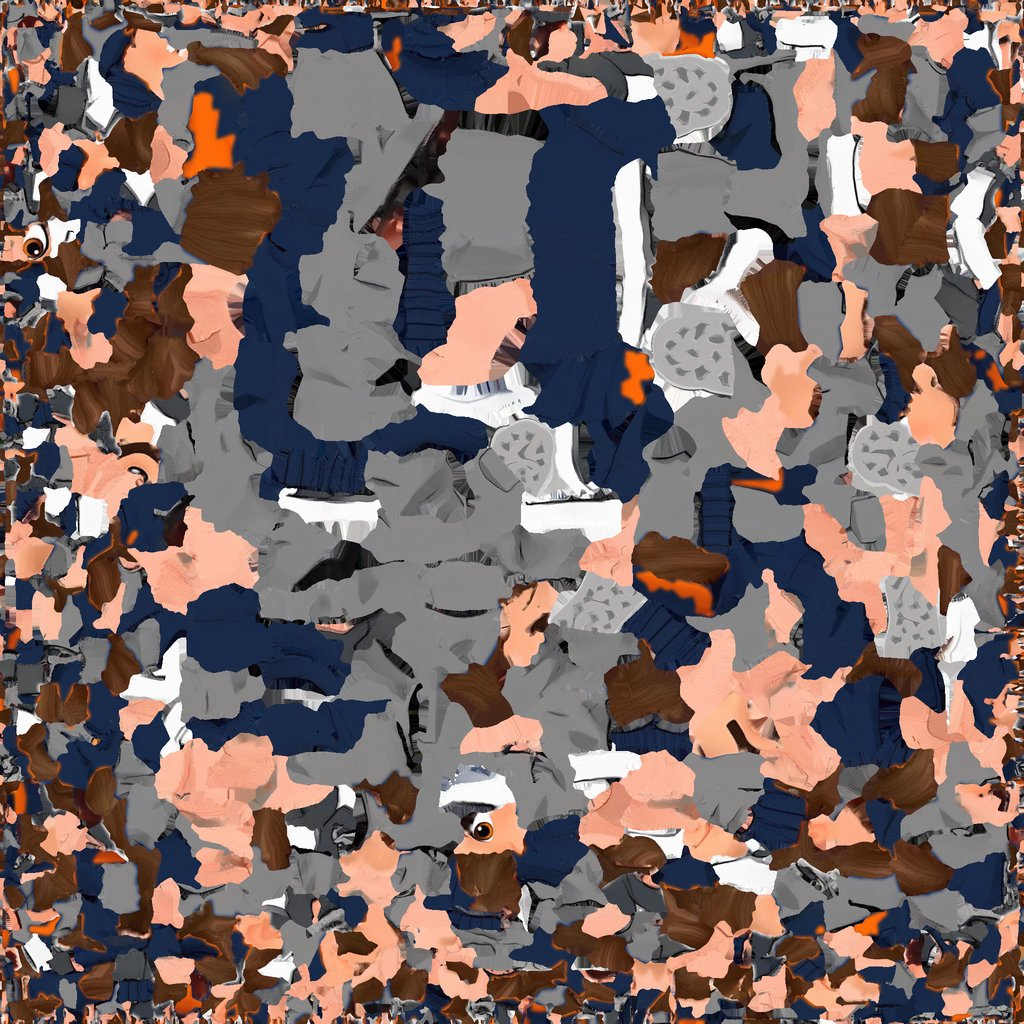
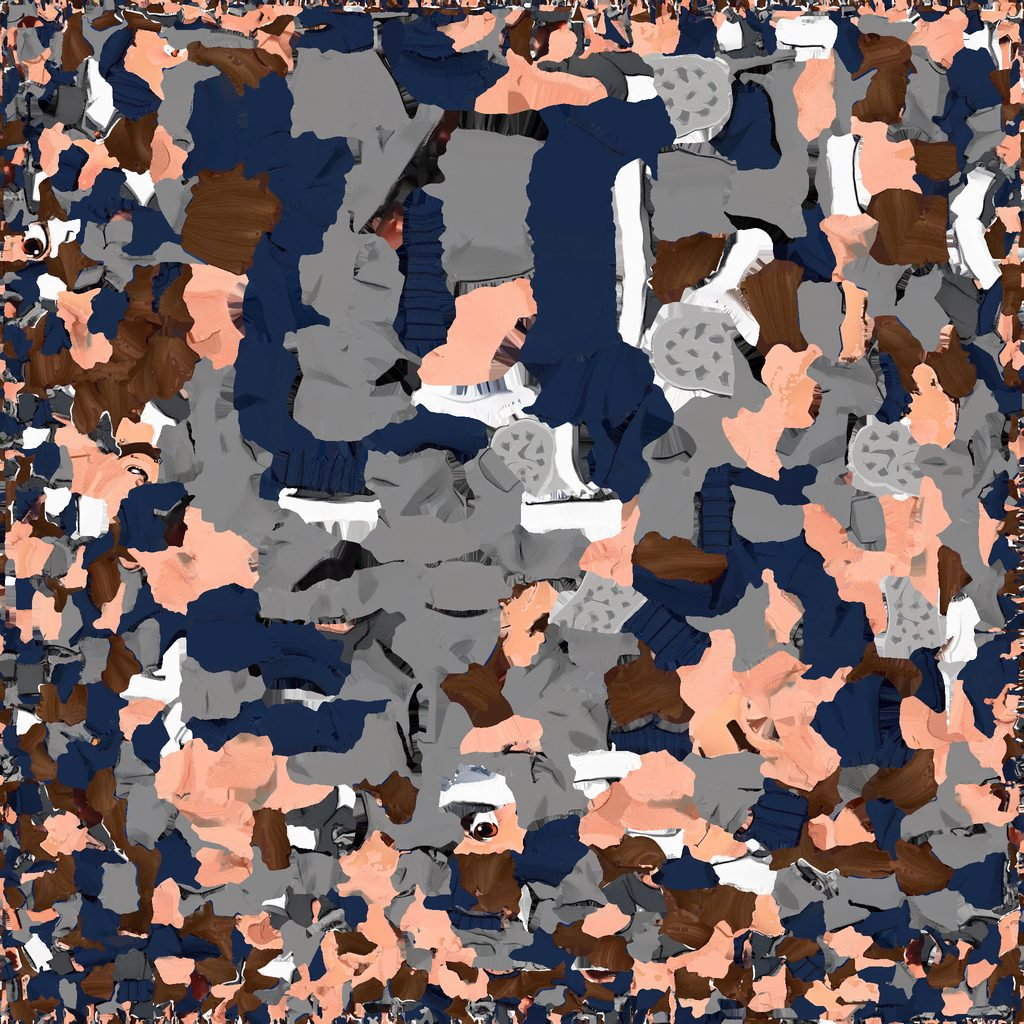
Outfit shop live: clean outfit textures, pictures of each, and other players in their outfits
- The outfit composite kept the base hoodie wherever the head mask reached the hood and
  shoulders, leaving orange (teal on the woman) streaks on the bought outfits: the base is
  now only kept where it is skin, hair or face. Textures and shop pictures redone (v=t2).
- The outfit travels with the player (packAv slot 13); other players see the Meshy figure in
  it, each parsed on its own from the cached file and dressed once its picture has loaded
  (a texture shown before that stayed black).
- Outfit textures refresh themselves when they finish loading.

Claude-Session: https://claude.ai/code/session_01F9ngwZU51Tw1JPpJ4NGN1L

diff --git a/public/store-game/index.html b/public/store-game/index.html
@@ -3,7 +3,7 @@
 (function(){ if(/[?&]hero=old/.test(location.search)) return; var a={}; try{ a=JSON.parse(localStorage.getItem('bt-avatar')||'{}')||{}; }catch(e){}
   var B=location.hostname==='play.buytoday.co.il'?'':'https://play.buytoday.co.il/', g=a.girl?'F1':'1', O=a.girl?['teal','pink','yellow','purple','tee','leather']:['orange','red','tee','navy','sweater','leather'];
   var o=O.indexOf(a.outfit)>=0?a.outfit:O[0], small=matchMedia('(max-width:700px)').matches||matchMedia('(pointer:coarse)').matches;
-  [[B+'people/MESHY-'+g+'.glb?v=y4','fetch'],[B+'people/anims.glb?v=p4','fetch'],[B+'gltf-loader.js','script'],[B+'meshopt_decoder.js?v=1','script'],[B+'people/tex/'+g+'-'+o+(small?'-m':'')+'.jpg?v=t1','image']].forEach(function(x){
+  [[B+'people/MESHY-'+g+'.glb?v=y4','fetch'],[B+'people/anims.glb?v=p4','fetch'],[B+'gltf-loader.js','script'],[B+'meshopt_decoder.js?v=1','script'],[B+'people/tex/'+g+'-'+o+(small?'-m':'')+'.jpg?v=t2','image']].forEach(function(x){
     var l=document.createElement('link'); l.rel='preload'; l.href=x[0]; l.as=x[1]; if(x[1]!=='script') l.crossOrigin='anonymous'; document.head.appendChild(l); }); })();
 </script>
 <link rel="preconnect" href="https://fonts.googleapis.com">
@@ -2330,8 +2330,10 @@ function heroDress(model,o){
 /* the Meshy figure: one baked texture, so nothing to swap or tint; it only needs its shadows */
 const MESHY_TEX={}, MESHY_SMALL=PHONE.matches||matchMedia('(pointer:coarse)').matches;
 function meshyTex(name){ if(MESHY_TEX[name]) return MESHY_TEX[name];
-  const t=new THREE.TextureLoader().load(ASSET+'people/tex/'+name+(MESHY_SMALL?'-m':'')+'.jpg?v=t1');
+  const t=new THREE.TextureLoader().load(ASSET+'people/tex/'+name+(MESHY_SMALL?'-m':'')+'.jpg?v=t2',tx=>{ tx.needsUpdate=true; tx.btOk=true; (tx.btWait||[]).forEach(f=>f()); tx.btWait=[]; });
   t.flipY=false; t.encoding=THREE.sRGBEncoding; t.anisotropy=renderer.capabilities.getMaxAnisotropy(); return MESHY_TEX[name]=t; }
+// resolves once the outfit's picture is in (a texture shown before that can stay black)
+const meshyTexReady=name=>new Promise(res=>{ const t=meshyTex(name); if(t.btOk) res(t); else (t.btWait=t.btWait||[]).push(()=>res(t)); });
 function meshyDress(model,o){ const an=renderer.capabilities.getMaxAnisotropy();
   // the player's own figure wears the chosen outfit: the same body painted another way (the face stays the same)
   const body=model.getObjectByName('char1')&&o!==ALF_LOOK&&MESHY_HERO?(o.girl?'F1':'1'):null, list=body&&MESHY_OUTFITS[o.girl?'f':'m'];
@@ -2854,6 +2856,28 @@ function personAttach(G,T){
     G.npc3d={model:r,mixer,actions,state:null,action:null,ik:heroFindArms(m),push:0,phase:Math.random()*10,person:true};
     mixer.update(G.npc3d.phase);
   }catch(e){ console.warn('people: keeping the wardrobe figure',e); }
+}
+/* another player as they see themselves: the Meshy figure in the outfit they wear (packAv slot 13), its own copy of
+   the skeleton and a material of its own; if the file cannot be had, the wardrobe figure as before */
+function meshyPeer(G,av){
+  // a model of its own, parsed again from the cached file (as Alfred and the seller are), with the crowd's clips
+  const url=heroMainUrl(av);
+  gltfReady().then(()=>new Promise((res,rej)=>{ const L=new THREE.GLTFLoader(); if(window.MeshoptDecoder) L.setMeshoptDecoder(window.MeshoptDecoder); L.load(url,res,undefined,rej); }))
+  .then(meshyAnims).then(gl=>{ const g=av.girl?'f':'m', list=MESHY_OUTFITS[g], o=list.some(x=>x[0]===av.outfit)?av.outfit:list[0][0];
+    return meshyTexReady((g==='f'?'F1':'1')+'-'+o).then(()=>[gl,g,o]); }).then(([gl,g,o])=>{
+    if(!G.g.parent||G.npc3d) return;
+    const m=gl.scene;
+    m.traverse(x=>{ if(x.isMesh){ x.castShadow=false; x.frustumCulled=false; } });
+    meshyDress(m,{girl:!!av.girl,outfit:o});   // exactly as the player's own figure is dressed
+    m.scale.setScalar(HERO_MODEL_SCALE); m.rotation.y=HERO_MODEL_ROTATION_OFFSET;
+    const r=new THREE.Group(); r.add(m);
+    const mixer=new THREE.AnimationMixer(m), actions={};
+    ['Idle','Walk','Run','Wave'].forEach(n=>{ const c=gl.animations.find(a=>a.name===n); if(c){ const a=mixer.clipAction(c); a.setLoop(THREE.LoopRepeat,Infinity); actions[n]=a; } });
+    if(!actions.Idle||!actions.Walk) throw new Error('no clips');
+    G.g.add(r); G.body.visible=false;
+    G.npc3d={model:r,mixer,actions,state:null,action:null,ik:heroFindArms(m),push:0,phase:0};
+    mixer.update(0);
+  }).catch(e=>{ console.warn('peer 3D: the wardrobe figure instead',e); npcAdopt(G,avOpts(av)); });
 }
 const npcGesture=(G,name)=>{ if(G&&G.npc3d&&G.g.visible) gestStart(G.npc3d,name,name==='Wave'?2:1); };
 // the cashiers are built before this code runs: they join now
@@ -5493,13 +5517,15 @@ const AV_BOTTOM=['pants','skirt','shorts'], AV_EXTRA=['none','cap','glasses','be
 const packAv=a=>{ const S=HERO_STYLES[a.girl?'f':'m'], L=heroLook(a);
   return [a.girl?1:0,a.skin,a.hair,a.shirt,a.pants,AV_BOTTOM.indexOf(a.bottom),AV_EXTRA.indexOf(a.extra),Math.max(0,AV_MERCH.indexOf(a.merch||'none')),
     S.head.findIndex(x=>x[0]===(a.hairStyle||L.head)),S.top.findIndex(x=>x[0]===L.top),   // 8, 9: the 3D haircut and shirt style
-    Math.max(0,AV_BODY.findIndex(b=>b[0]===a.body)),Math.max(0,AV_CHOICES.eyes.indexOf(a.eyes)),Math.max(0,AV_EYEWEAR.indexOf(a.eyewear||'none'))]; };   // 10-12: build, eyes, glasses
+    Math.max(0,AV_BODY.findIndex(b=>b[0]===a.body)),Math.max(0,AV_CHOICES.eyes.indexOf(a.eyes)),Math.max(0,AV_EYEWEAR.indexOf(a.eyewear||'none')),   // 10-12: build, eyes, glasses
+    MESHY_HERO?Math.max(0,MESHY_OUTFITS[a.girl?'f':'m'].findIndex(x=>x[0]===a.outfit)):-1]; };   // 13: the Meshy outfit (-1: the wardrobe figure)
 function unpackAv(v){ if(!Array.isArray(v)) return null;
   // only the creator's own swatches: an arbitrary colour per visitor would grow the material cache without end
   const c=(x,key,d)=>AV_CHOICES[key].includes(x)?x:d;
   const S=HERO_STYLES[v[0]===1?'f':'m'], st=(list,i)=>Number.isInteger(i)&&list[i]?list[i][0]:'';
   return {girl:v[0]===1,skin:c(v[1],'skin',0xf1c7a0),hair:c(v[2],'hair',0x3a2618),shirt:c(v[3],'shirt',0x2f7de1),pants:c(v[4],'pants',0x2b2f3a),bottom:AV_BOTTOM[v[5]]||'pants',extra:AV_EXTRA[v[6]]||'none',merch:AV_MERCH[v[7]]||'none',
-    hairStyle:st(S.head,v[8]),top:st(S.top,v[9]),body:(AV_BODY[v[10]]||AV_BODY[0])[0],eyes:AV_CHOICES.eyes[v[11]]||AV_CHOICES.eyes[0],eyewear:AV_EYEWEAR[v[12]]||'none'}; }
+    hairStyle:st(S.head,v[8]),top:st(S.top,v[9]),body:(AV_BODY[v[10]]||AV_BODY[0])[0],eyes:AV_CHOICES.eyes[v[11]]||AV_CHOICES.eyes[0],eyewear:AV_EYEWEAR[v[12]]||'none',
+    outfit:Number.isInteger(v[13])&&MESHY_OUTFITS[v[0]===1?'f':'m'][v[13]]?MESHY_OUTFITS[v[0]===1?'f':'m'][v[13]][0]:''}; }
 const Net={sb:null,ch:null,room:1,ready:false,joining:false,id:Math.random().toString(36).slice(2,10),peers:new Map(),count:0,
   sendT:0,idleT:0,force:false,sent:null,emoAt:0,selfEmo:null};
 const onlineEl=$('#online'), emoBtn=$('#emoBtn'), emoTray=$('#emoTray');
@@ -5544,7 +5570,8 @@ function netPeer(id,meta){
   let q=Net.peers.get(id); const key=JSON.stringify(meta.a), name=cleanName(meta.n)||'אורח/ת';
   if(q&&q.key!==key){ netDrop(id); q=null; }
   if(!q){ if(Net.peers.size>=ROOM_CAP+4) return; const av=unpackAv(meta.a); if(!av) return;
-    const G=mkGuyNPC(avOpts(av)), c=mkCart(); c.c.position.set(0,0,1.32); G.g.add(c.c); G.g.visible=false; scene.add(G.g);
+    const mp=MESHY_HERO&&!!av.outfit, G=mp?mkGuy(avOpts(av)):mkGuyNPC(avOpts(av)), c=mkCart(); c.c.position.set(0,0,1.32); G.g.add(c.c); G.g.visible=false; scene.add(G.g);
+    if(mp) meshyPeer(G,av);
     const tag=document.createElement('div'); tag.className='nametag'; tag.hidden=true; $('#bubbles').appendChild(tag);
     const emo=bubble('emo');
     q={id,key,G,tag,emo,snaps:[],seen:false,speed:0,prev:new THREE.Vector3(),emoUntil:0,emoAt:0};

diff --git a/store-game/game.html b/store-game/game.html
@@ -3,7 +3,7 @@
 (function(){ if(/[?&]hero=old/.test(location.search)) return; var a={}; try{ a=JSON.parse(localStorage.getItem('bt-avatar')||'{}')||{}; }catch(e){}
   var B=location.hostname==='play.buytoday.co.il'?'':'https://play.buytoday.co.il/', g=a.girl?'F1':'1', O=a.girl?['teal','pink','yellow','purple','tee','leather']:['orange','red','tee','navy','sweater','leather'];
   var o=O.indexOf(a.outfit)>=0?a.outfit:O[0], small=matchMedia('(max-width:700px)').matches||matchMedia('(pointer:coarse)').matches;
-  [[B+'people/MESHY-'+g+'.glb?v=y4','fetch'],[B+'people/anims.glb?v=p4','fetch'],[B+'gltf-loader.js','script'],[B+'meshopt_decoder.js?v=1','script'],[B+'people/tex/'+g+'-'+o+(small?'-m':'')+'.jpg?v=t1','image']].forEach(function(x){
+  [[B+'people/MESHY-'+g+'.glb?v=y4','fetch'],[B+'people/anims.glb?v=p4','fetch'],[B+'gltf-loader.js','script'],[B+'meshopt_decoder.js?v=1','script'],[B+'people/tex/'+g+'-'+o+(small?'-m':'')+'.jpg?v=t2','image']].forEach(function(x){
     var l=document.createElement('link'); l.rel='preload'; l.href=x[0]; l.as=x[1]; if(x[1]!=='script') l.crossOrigin='anonymous'; document.head.appendChild(l); }); })();
 </script>
 <link rel="preconnect" href="https://fonts.googleapis.com">
@@ -2330,8 +2330,10 @@ function heroDress(model,o){
 /* the Meshy figure: one baked texture, so nothing to swap or tint; it only needs its shadows */
 const MESHY_TEX={}, MESHY_SMALL=PHONE.matches||matchMedia('(pointer:coarse)').matches;
 function meshyTex(name){ if(MESHY_TEX[name]) return MESHY_TEX[name];
-  const t=new THREE.TextureLoader().load(ASSET+'people/tex/'+name+(MESHY_SMALL?'-m':'')+'.jpg?v=t1');
+  const t=new THREE.TextureLoader().load(ASSET+'people/tex/'+name+(MESHY_SMALL?'-m':'')+'.jpg?v=t2',tx=>{ tx.needsUpdate=true; tx.btOk=true; (tx.btWait||[]).forEach(f=>f()); tx.btWait=[]; });
   t.flipY=false; t.encoding=THREE.sRGBEncoding; t.anisotropy=renderer.capabilities.getMaxAnisotropy(); return MESHY_TEX[name]=t; }
+// resolves once the outfit's picture is in (a texture shown before that can stay black)
+const meshyTexReady=name=>new Promise(res=>{ const t=meshyTex(name); if(t.btOk) res(t); else (t.btWait=t.btWait||[]).push(()=>res(t)); });
 function meshyDress(model,o){ const an=renderer.capabilities.getMaxAnisotropy();
   // the player's own figure wears the chosen outfit: the same body painted another way (the face stays the same)
   const body=model.getObjectByName('char1')&&o!==ALF_LOOK&&MESHY_HERO?(o.girl?'F1':'1'):null, list=body&&MESHY_OUTFITS[o.girl?'f':'m'];
@@ -2854,6 +2856,28 @@ function personAttach(G,T){
     G.npc3d={model:r,mixer,actions,state:null,action:null,ik:heroFindArms(m),push:0,phase:Math.random()*10,person:true};
     mixer.update(G.npc3d.phase);
   }catch(e){ console.warn('people: keeping the wardrobe figure',e); }
+}
+/* another player as they see themselves: the Meshy figure in the outfit they wear (packAv slot 13), its own copy of
+   the skeleton and a material of its own; if the file cannot be had, the wardrobe figure as before */
+function meshyPeer(G,av){
+  // a model of its own, parsed again from the cached file (as Alfred and the seller are), with the crowd's clips
+  const url=heroMainUrl(av);
+  gltfReady().then(()=>new Promise((res,rej)=>{ const L=new THREE.GLTFLoader(); if(window.MeshoptDecoder) L.setMeshoptDecoder(window.MeshoptDecoder); L.load(url,res,undefined,rej); }))
+  .then(meshyAnims).then(gl=>{ const g=av.girl?'f':'m', list=MESHY_OUTFITS[g], o=list.some(x=>x[0]===av.outfit)?av.outfit:list[0][0];
+    return meshyTexReady((g==='f'?'F1':'1')+'-'+o).then(()=>[gl,g,o]); }).then(([gl,g,o])=>{
+    if(!G.g.parent||G.npc3d) return;
+    const m=gl.scene;
+    m.traverse(x=>{ if(x.isMesh){ x.castShadow=false; x.frustumCulled=false; } });
+    meshyDress(m,{girl:!!av.girl,outfit:o});   // exactly as the player's own figure is dressed
+    m.scale.setScalar(HERO_MODEL_SCALE); m.rotation.y=HERO_MODEL_ROTATION_OFFSET;
+    const r=new THREE.Group(); r.add(m);
+    const mixer=new THREE.AnimationMixer(m), actions={};
+    ['Idle','Walk','Run','Wave'].forEach(n=>{ const c=gl.animations.find(a=>a.name===n); if(c){ const a=mixer.clipAction(c); a.setLoop(THREE.LoopRepeat,Infinity); actions[n]=a; } });
+    if(!actions.Idle||!actions.Walk) throw new Error('no clips');
+    G.g.add(r); G.body.visible=false;
+    G.npc3d={model:r,mixer,actions,state:null,action:null,ik:heroFindArms(m),push:0,phase:0};
+    mixer.update(0);
+  }).catch(e=>{ console.warn('peer 3D: the wardrobe figure instead',e); npcAdopt(G,avOpts(av)); });
 }
 const npcGesture=(G,name)=>{ if(G&&G.npc3d&&G.g.visible) gestStart(G.npc3d,name,name==='Wave'?2:1); };
 // the cashiers are built before this code runs: they join now
@@ -5493,13 +5517,15 @@ const AV_BOTTOM=['pants','skirt','shorts'], AV_EXTRA=['none','cap','glasses','be
 const packAv=a=>{ const S=HERO_STYLES[a.girl?'f':'m'], L=heroLook(a);
   return [a.girl?1:0,a.skin,a.hair,a.shirt,a.pants,AV_BOTTOM.indexOf(a.bottom),AV_EXTRA.indexOf(a.extra),Math.max(0,AV_MERCH.indexOf(a.merch||'none')),
     S.head.findIndex(x=>x[0]===(a.hairStyle||L.head)),S.top.findIndex(x=>x[0]===L.top),   // 8, 9: the 3D haircut and shirt style
-    Math.max(0,AV_BODY.findIndex(b=>b[0]===a.body)),Math.max(0,AV_CHOICES.eyes.indexOf(a.eyes)),Math.max(0,AV_EYEWEAR.indexOf(a.eyewear||'none'))]; };   // 10-12: build, eyes, glasses
+    Math.max(0,AV_BODY.findIndex(b=>b[0]===a.body)),Math.max(0,AV_CHOICES.eyes.indexOf(a.eyes)),Math.max(0,AV_EYEWEAR.indexOf(a.eyewear||'none')),   // 10-12: build, eyes, glasses
+    MESHY_HERO?Math.max(0,MESHY_OUTFITS[a.girl?'f':'m'].findIndex(x=>x[0]===a.outfit)):-1]; };   // 13: the Meshy outfit (-1: the wardrobe figure)
 function unpackAv(v){ if(!Array.isArray(v)) return null;
   // only the creator's own swatches: an arbitrary colour per visitor would grow the material cache without end
   const c=(x,key,d)=>AV_CHOICES[key].includes(x)?x:d;
   const S=HERO_STYLES[v[0]===1?'f':'m'], st=(list,i)=>Number.isInteger(i)&&list[i]?list[i][0]:'';
   return {girl:v[0]===1,skin:c(v[1],'skin',0xf1c7a0),hair:c(v[2],'hair',0x3a2618),shirt:c(v[3],'shirt',0x2f7de1),pants:c(v[4],'pants',0x2b2f3a),bottom:AV_BOTTOM[v[5]]||'pants',extra:AV_EXTRA[v[6]]||'none',merch:AV_MERCH[v[7]]||'none',
-    hairStyle:st(S.head,v[8]),top:st(S.top,v[9]),body:(AV_BODY[v[10]]||AV_BODY[0])[0],eyes:AV_CHOICES.eyes[v[11]]||AV_CHOICES.eyes[0],eyewear:AV_EYEWEAR[v[12]]||'none'}; }
+    hairStyle:st(S.head,v[8]),top:st(S.top,v[9]),body:(AV_BODY[v[10]]||AV_BODY[0])[0],eyes:AV_CHOICES.eyes[v[11]]||AV_CHOICES.eyes[0],eyewear:AV_EYEWEAR[v[12]]||'none',
+    outfit:Number.isInteger(v[13])&&MESHY_OUTFITS[v[0]===1?'f':'m'][v[13]]?MESHY_OUTFITS[v[0]===1?'f':'m'][v[13]][0]:''}; }
 const Net={sb:null,ch:null,room:1,ready:false,joining:false,id:Math.random().toString(36).slice(2,10),peers:new Map(),count:0,
   sendT:0,idleT:0,force:false,sent:null,emoAt:0,selfEmo:null};
 const onlineEl=$('#online'), emoBtn=$('#emoBtn'), emoTray=$('#emoTray');
@@ -5544,7 +5570,8 @@ function netPeer(id,meta){
   let q=Net.peers.get(id); const key=JSON.stringify(meta.a), name=cleanName(meta.n)||'אורח/ת';
   if(q&&q.key!==key){ netDrop(id); q=null; }
   if(!q){ if(Net.peers.size>=ROOM_CAP+4) return; const av=unpackAv(meta.a); if(!av) return;
-    const G=mkGuyNPC(avOpts(av)), c=mkCart(); c.c.position.set(0,0,1.32); G.g.add(c.c); G.g.visible=false; scene.add(G.g);
+    const mp=MESHY_HERO&&!!av.outfit, G=mp?mkGuy(avOpts(av)):mkGuyNPC(avOpts(av)), c=mkCart(); c.c.position.set(0,0,1.32); G.g.add(c.c); G.g.visible=false; scene.add(G.g);
+    if(mp) meshyPeer(G,av);
     const tag=document.createElement('div'); tag.className='nametag'; tag.hidden=true; $('#bubbles').appendChild(tag);
     const emo=bubble('emo');
     q={id,key,G,tag,emo,snaps:[],seen:false,speed:0,prev:new THREE.Vector3(),emoUntil:0,emoAt:0};
